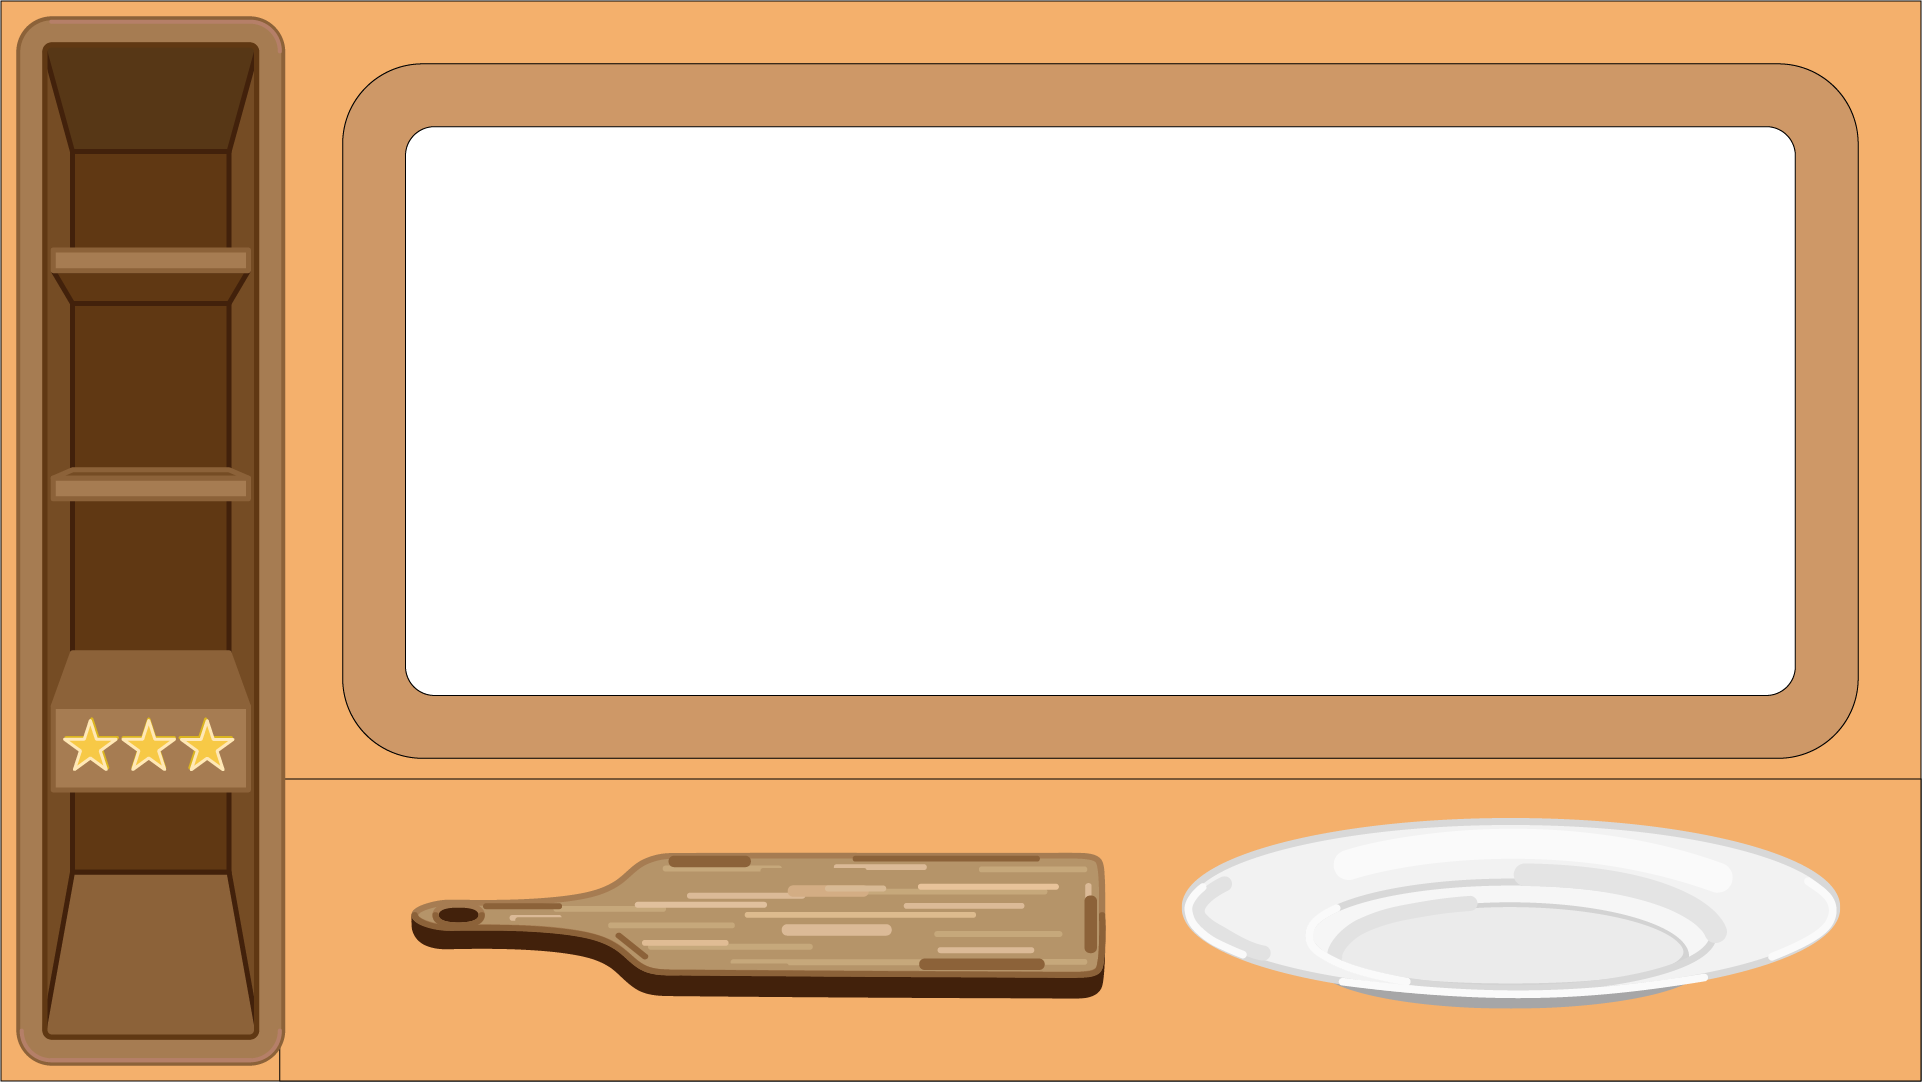
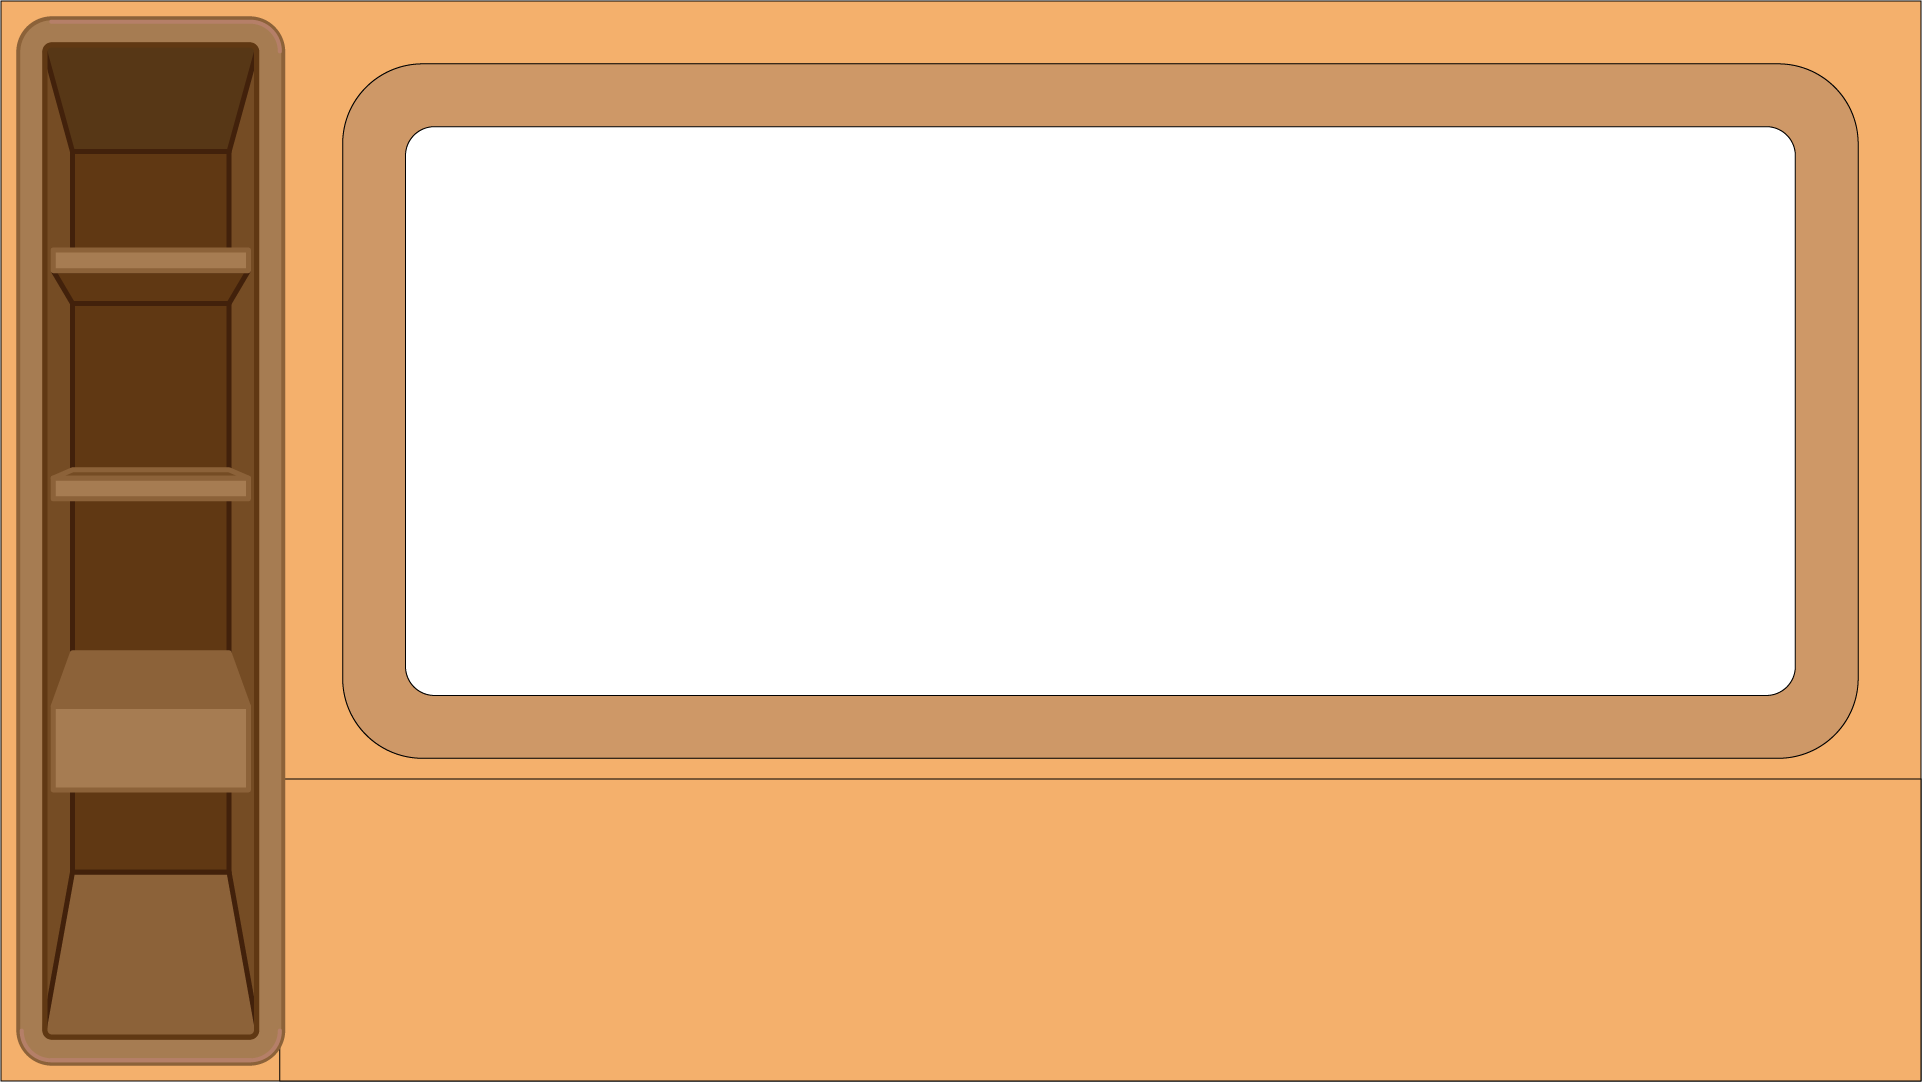
added props and clean kitchen

Changed region(s): [[0.2185, 0.732, 0.9677, 0.9455], [0.0312, 0.671, 0.1249, 0.732]]

diff --git a/script.js b/script.js
@@ -1,16 +1,30 @@
 document.addEventListener('DOMContentLoaded', () => {
   const buttons = Array.from(document.querySelectorAll('.img-button'));
+  const choppingBoard = document.getElementById('choppingBoard');
+  
   if (!buttons.length) return;
 
-  // toggle clicked button; stop propagation so document click doesn't immediately close it
   buttons.forEach((btn) => {
     btn.addEventListener('click', (e) => {
-      // optionally close others when one opens:
-      buttons.forEach(b => { if (b !== btn) { b.classList.remove('is-active'); b.setAttribute('aria-pressed', 'false'); } });
+      // close others when one opens
+      buttons.forEach(b => { 
+        if (b !== btn) { 
+          b.classList.remove('is-active'); 
+          b.setAttribute('aria-pressed', 'false'); 
+        } 
+      });
 
       const expanded = btn.classList.toggle('is-active');
       btn.setAttribute('aria-pressed', String(expanded));
       e.stopPropagation();
+
+      // add food image to chopping board when clicked
+      if (expanded) {
+        const img = btn.querySelector('img');
+        const foodClone = img.cloneNode();
+        foodClone.classList.add('chopping-board-item');
+        choppingBoard.appendChild(foodClone);
+      }
     });
   });
 
@@ -23,7 +37,5 @@ document.addEventListener('DOMContentLoaded', () => {
       }
     });
   });
-
- 
 });
 

diff --git a/index.html b/index.html
@@ -1,5 +1,5 @@
 <!doctype html>
-<html>
+<html lang="en">
 <head>
   <meta charset="utf-8" />
   <meta name="viewport" content="width=device-width,initial-scale=1" />
@@ -8,18 +8,17 @@
 </head>
 <body>
   <main class="stage">
-
-    
     <button id="hraMasoBtn" class="img-button" aria-label="hra maso" aria-pressed="false" type="button">
       <img src="hra_maso.png" alt="hra maso" id="hraMasoImg">
     </button>
 
-    
     <button id="hraZeleninaBtn" class="img-button" aria-label="hra zelenina" aria-pressed="false" type="button">
       <img src="hra_zelenina.png" alt="hra zelenina" id="hraZeleninaImg">
     </button>
-
   </main>
+
+  <!-- chopping board area where clicked food appears -->
+  <div id="choppingBoard" class="chopping-board"></div>
 
   <script src="script.js"></script>
 </body>

diff --git a/styles.css b/styles.css
@@ -86,4 +86,29 @@ body {
   background-size: cover, cover;    /* both images scaled the same way */
   background-repeat: no-repeat, no-repeat;
   background-attachment: fixed, fixed;
-  }
+}
+
+/* chopping board container */
+.chopping-board {
+  position: fixed;
+  bottom: 20px;
+  left: 50%;
+  transform: translateX(-50%);
+  width: 400px;
+  height: 120px;
+  background: rgba(200, 160, 120, 0.9);
+  border: 3px solid #8b6f47;
+  border-radius: 12px;
+  display: flex;
+  gap: 10px;
+  padding: 10px;
+  overflow-x: auto;
+}
+
+/* food items on chopping board */
+.chopping-board-item {
+  height: 100px;
+  width: auto;
+  object-fit: contain;
+  flex-shrink: 0;
+}
